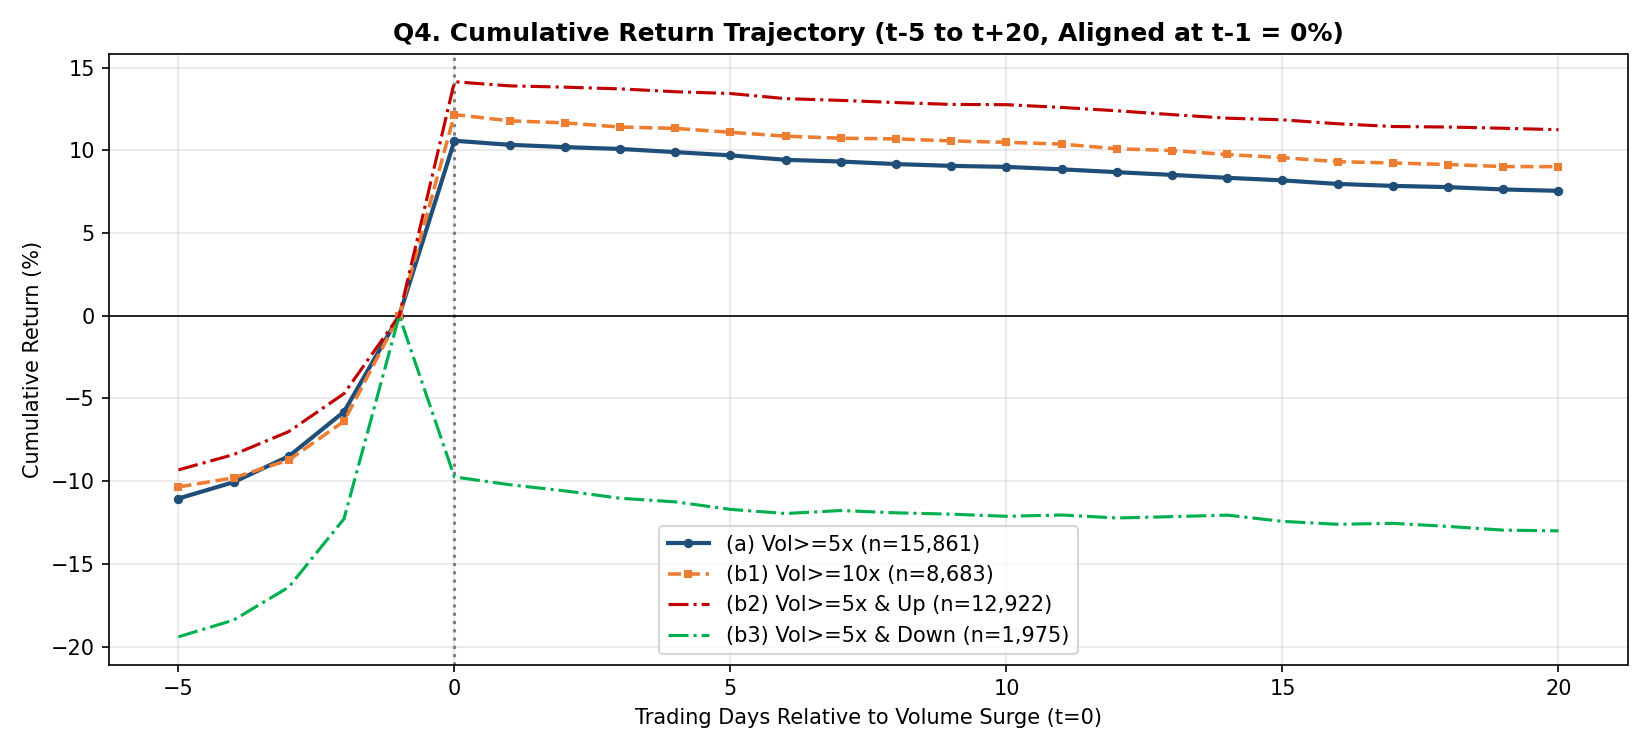
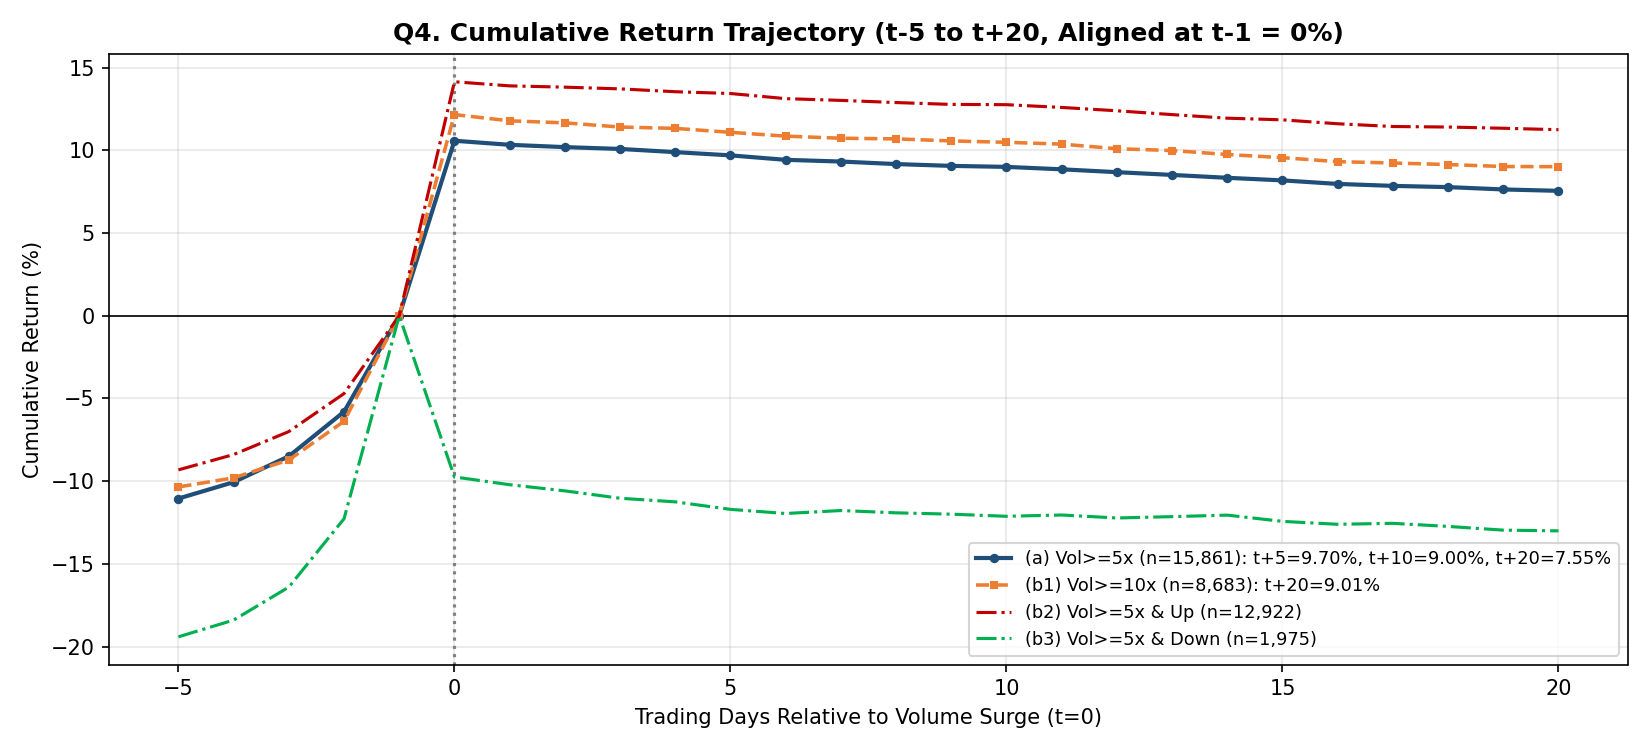
Include Q4 chart in Week 2 HTML report

Changed region(s): [[0.4018, 0.7053, 0.9891, 0.8893]]

diff --git a/src/run_q4.py b/src/run_q4.py
@@ -23,12 +23,12 @@ pdn, ndn = path(mb & (df['rc']<0))
 
 fig, ax = plt.subplots(figsize=(11, 5), dpi=150)
 ax.axvline(0, color='gray', ls=':'); ax.axhline(0, color='black', lw=0.8)
-ax.plot(lags, pb, '-o', ms=3.5, color='#1f4e78', lw=2, label=f'(a) Vol>=5x (n={nb:,})')
-ax.plot(lags, p10, '--s', ms=3, color='#ed7d31', lw=1.7, label=f'(b1) Vol>=10x (n={n10:,})')
+ax.plot(lags, pb, '-o', ms=3.5, color='#1f4e78', lw=2, label=f'(a) Vol>=5x (n={nb:,}): t+5={pb[10]:.2f}%, t+10={pb[15]:.2f}%, t+20={pb[25]:.2f}%')
+ax.plot(lags, p10, '--s', ms=3, color='#ed7d31', lw=1.7, label=f'(b1) Vol>=10x (n={n10:,}): t+20={p10[25]:.2f}%')
 ax.plot(lags, pu, '-.', color='#c00000', lw=1.5, label=f'(b2) Vol>=5x & Up (n={nu:,})')
 ax.plot(lags, pdn, '-.', color='#00b050', lw=1.5, label=f'(b3) Vol>=5x & Down (n={ndn:,})')
 ax.set_title("Q4. Cumulative Return Trajectory (t-5 to t+20, Aligned at t-1 = 0%)", fontweight='bold')
 ax.set_xlabel("Trading Days Relative to Volume Surge (t=0)"); ax.set_ylabel("Cumulative Return (%)")
-ax.legend(); ax.grid(alpha=0.3); plt.tight_layout()
+ax.legend(fontsize=8.5); ax.grid(alpha=0.3); plt.tight_layout()
 plt.savefig("outputs/q4_volume_lead_lag.png"); plt.close()
-print("Q4 저장 완료")
+print("Q4 차트 생성 완료")
